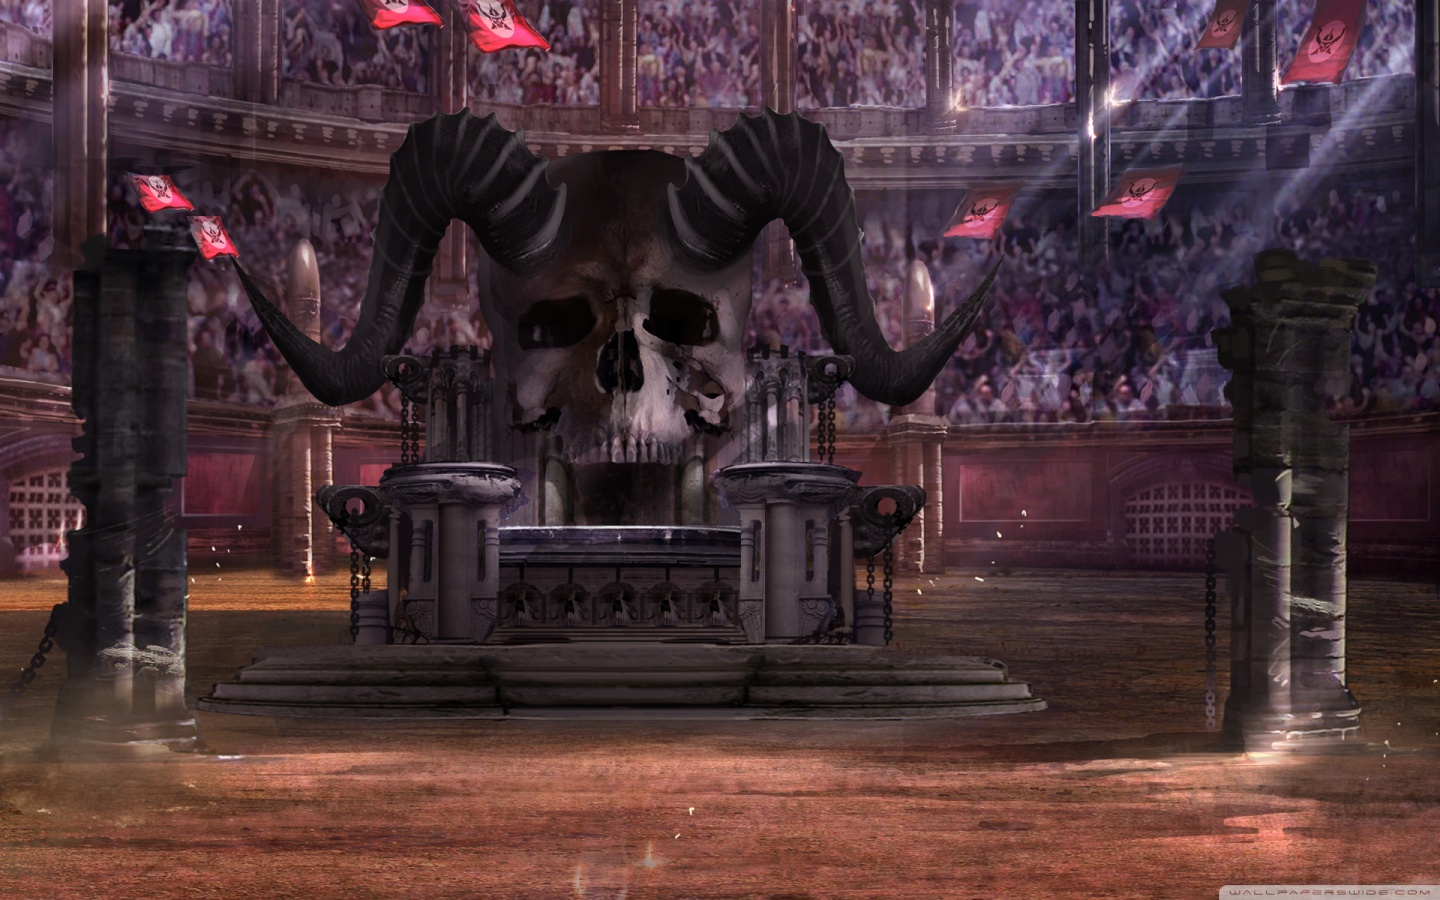
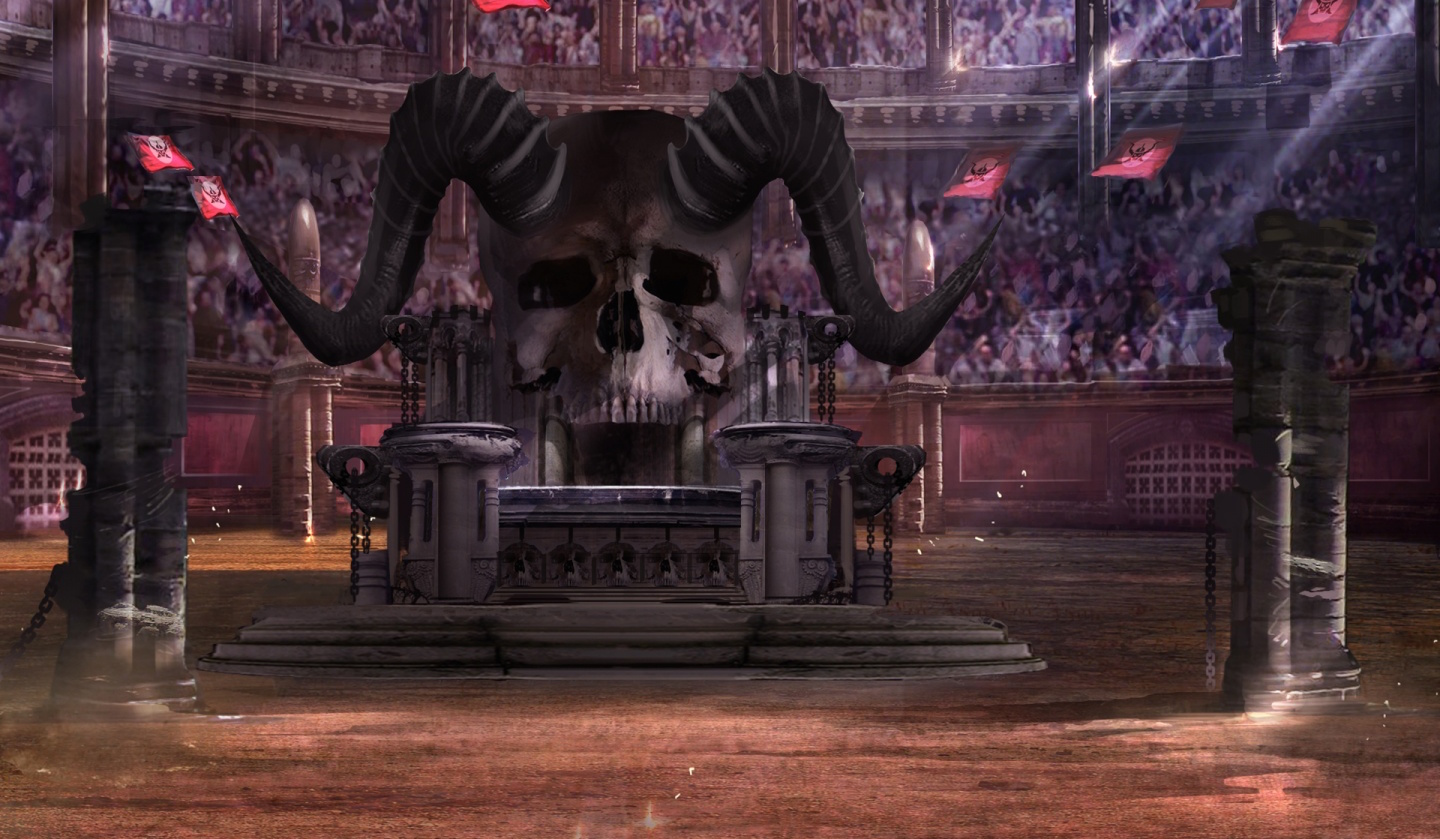
final changes made

diff --git a/style.css b/style.css
@@ -13,10 +13,18 @@ header{
   border: 2px solid white;
 }
 body{
-  background: url(images/MK_background_reptile.jpg);
+  background: url(images/MK_background_reptile.jpg) no-repeat center center fixed;
+  -webkit-background-size: cover;
+  -moz-background-size: cover;
+  -o-background-size: cover;
+  background-size: cover;
 }
 body.newBackground{
-  background: url(images/MK_background_coliseum.jpg);
+  background: url(images/MK_background_coliseum.jpg) no-repeat center center fixed;
+  -webkit-background-size: cover;
+  -moz-background-size: cover;
+  -o-background-size: cover;
+  background-size: cover;
 }
 .flip-container{
   height: 150px;
@@ -55,4 +63,9 @@ body.newBackground{
 }
 button:hover{
     background: #FF4136;
+}
+footer {
+  position: fixed;
+  bottom: -5px;
+  right: -5px;
 }

diff --git a/script.js b/script.js
@@ -111,4 +111,11 @@ function cardMatching(){
       $("body").toggleClass("newBackground");
     });
 //set an on click toggle function that allows different backgrounds to be used in the game
+    $("#deck").on('click', function(){
+      window.location = "indexSF.html";
+    });
+
+    $("div#toasty").on("click", function(){
+      $('img.toasty').attr("src", "images/toasty_guy.png");
+    });
 });

diff --git a/index.html b/index.html
@@ -138,5 +138,10 @@
     <button id="background">Change Background</button>
     <button id="deck">New Deck</button>
   </div>
+<footer>
+  <div id="toasty">
+  <img class="toasty" src="images/scorpion_logo.png" alt="Scorpion Logo">
+  </div>
+</footer>
 </body>
 </html>
